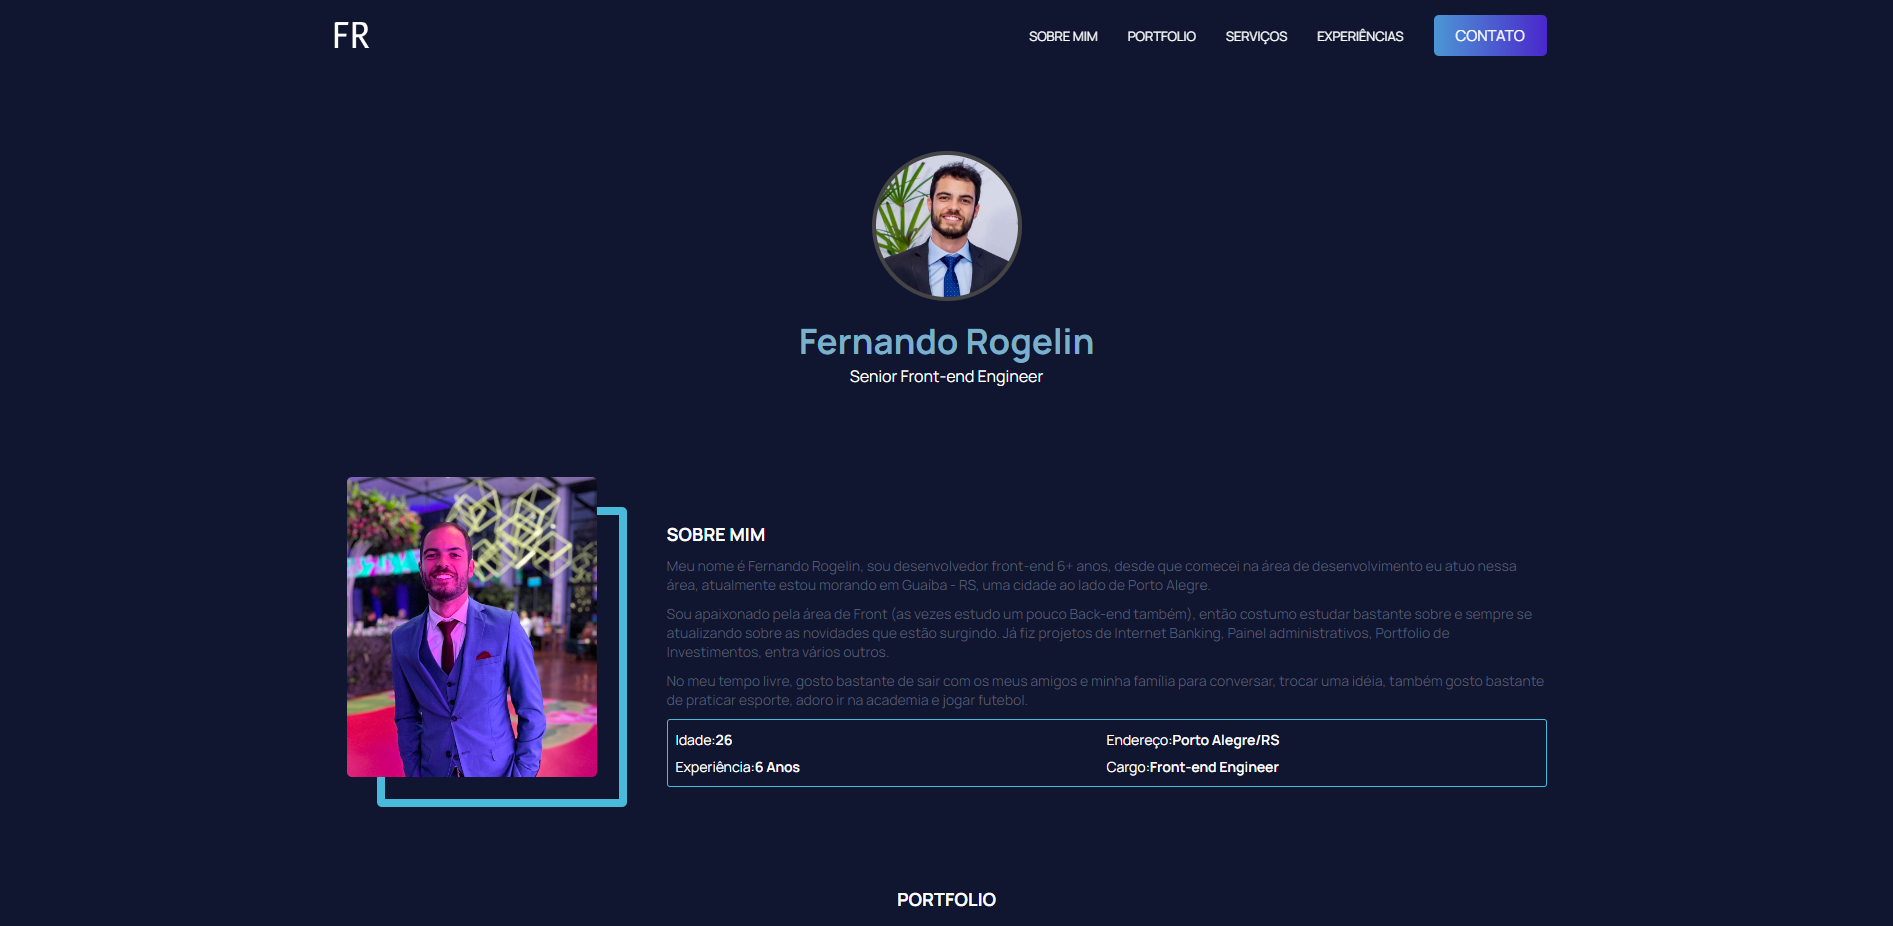
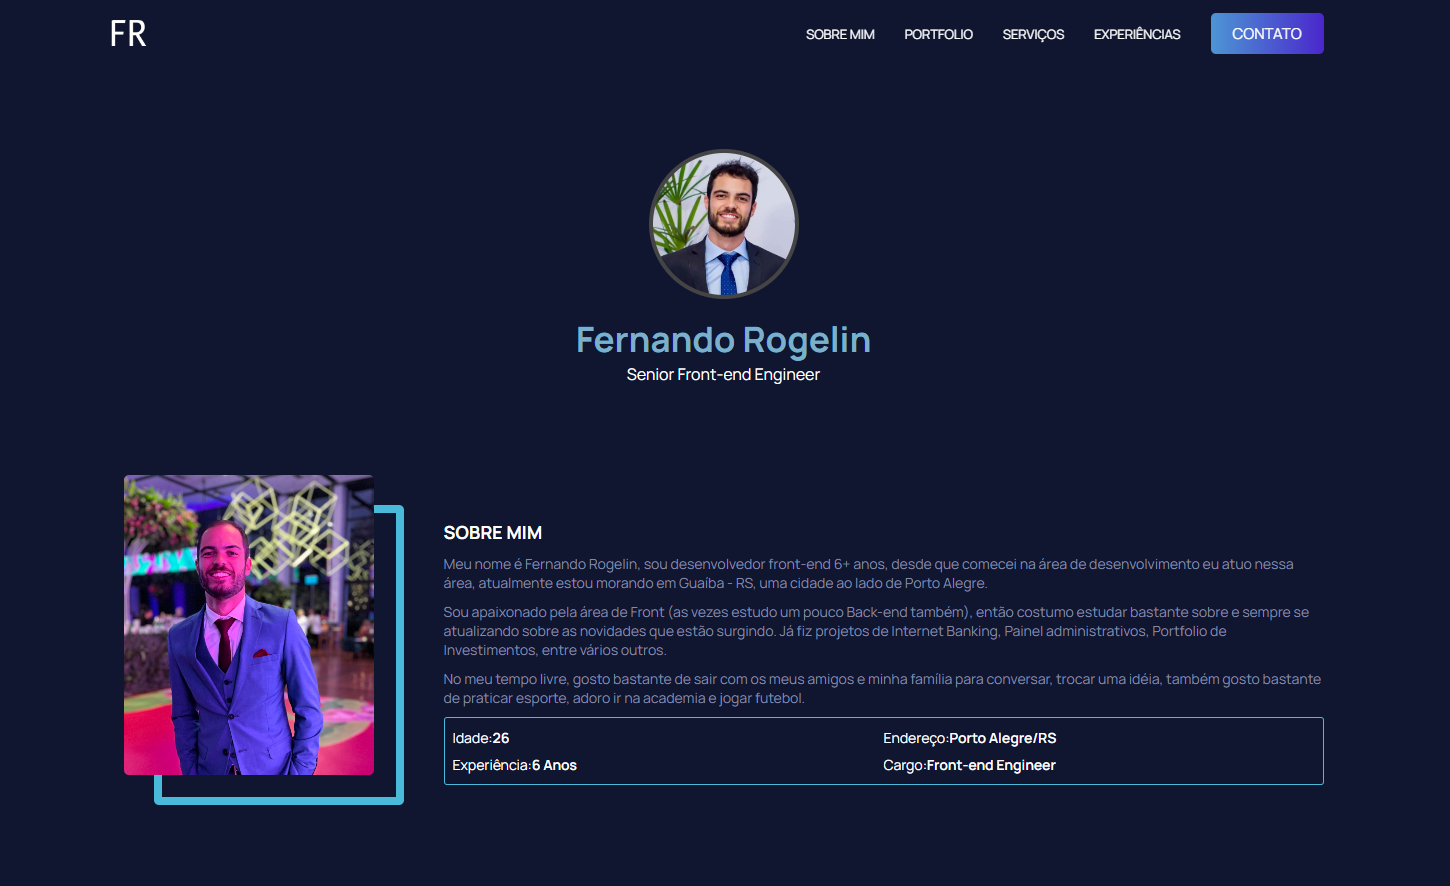
fix: Change text colors, resize images and change tag P to Button in portfolio section

diff --git a/src/layouts/Portfolio/index.tsx b/src/layouts/Portfolio/index.tsx
@@ -22,22 +22,22 @@ const Portfolio = () => {
       <h1 className='portfolio__title'>Portfolio</h1>
 
       <div className='screens'>
-        <p
+        <button
           onClick={() => setScreens(EScreens.website)}
           className={classNames(
             { 'screens__option': true, selected: screens === EScreens.website }
           )}
         >
           Website
-        </p>
-        <p
+        </button>
+        <button
           onClick={() => setScreens(EScreens.desktop)}
           className={classNames(
             { 'screens__option': true, selected: screens === EScreens.desktop }
           )}
         >
           Desktop
-        </p>
+        </button>
       </div>
 
       <div>{showScreens()}</div>

diff --git a/src/layouts/AboutMe/index.tsx b/src/layouts/AboutMe/index.tsx
@@ -17,7 +17,7 @@ const AboutMe = () => {
         <p className='aboutme__text'>
           Sou apaixonado pela área de Front (as vezes estudo um pouco Back-end também), então costumo estudar
           bastante sobre e sempre se atualizando sobre as novidades que estão surgindo. Já fiz projetos de
-          Internet Banking, Painel administrativos, Portfolio de Investimentos, entra vários outros.
+          Internet Banking, Painel administrativos, Portfolio de Investimentos, entre vários outros.
         </p>
         <p className='aboutme__text'>
           No meu tempo livre, gosto bastante de sair com os meus amigos e minha família para conversar, trocar

diff --git a/src/components/Project/index.tsx b/src/components/Project/index.tsx
@@ -12,7 +12,7 @@ const Project = ({ invert = false, title, technologies, photo, children }: Proje
         <p className='information__text'>{children}</p>
 
         {technologies && <p className='information__technologies'>
-          Neste projeto foi usado: <span className='information__frameworks'>{technologies}</span>
+          Tecnologias: <span className='information__frameworks'>{technologies}</span>
         </p>}
       </div>
 

diff --git a/src/layouts/Portfolio/styles.scss b/src/layouts/Portfolio/styles.scss
@@ -19,12 +19,17 @@
   justify-content: center;
 
   &__option {
-    color: $white;
+    color: $black;
     cursor: pointer;
-    font-size: 1.4rem;
+    font-size: 1.5rem;
+    font-weight: bold;
+    border-radius: 5px;
+    background: $comet;
+    padding: 0.4rem 1.2rem;
   }
 }
 
 .selected {
-  color: $shakespeare;
+  color: $white;
+  background: linear-gradient(90deg, #4C96D4, #4A27CC);
 }

diff --git a/src/styles/_colors.scss b/src/styles/_colors.scss
@@ -1,6 +1,6 @@
 $black: #000;
 $white: #fff;
-$comet: #555A6D;
+$comet: #8389a6;
 $haiti: #0F1630;
 $rhino: #33346C;
 $primary: #101630;
